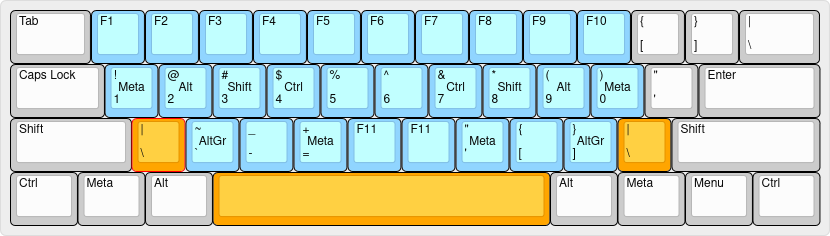
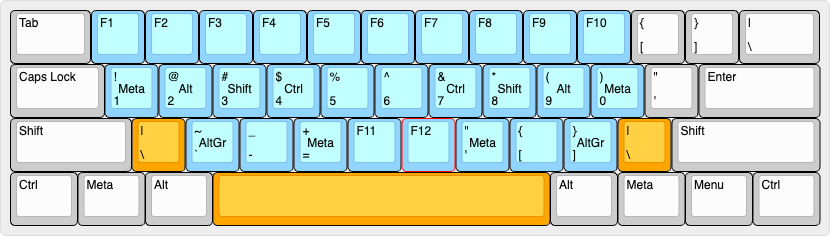
Update README.md and image to fix Fumbol.

diff --git a/README.md b/README.md
@@ -47,7 +47,7 @@ The spacebar is also a layer key and behaves as an entry point to the following 
 
 While holding the spacebar the navigation and editing keys will become accessible under the fingers of your right hand. With your left hand you will be able to access the modifier and media keys. The Shift and Fumbol keys can be used to switch to the corresponding layer, which will remain active until you release the spacebar.
 
-#### [Fumbol](https://www.keyboard-layout-editor.com/##@_name=Fumbol;&@_w:1.5;&=Tab&_c=#90D5FF;&=F1&=F2&=F3&=F4&=F5&=F6&=F7&=F8&=F9&=F10&_c=#cccccc;&=%7B%0A%5B&=%7D%0A%5D&_w:1.5;&=%7C%0A%5C;&@_w:1.75;&=Caps%20Lock&_c=#90D5FF;&=!%0A1%0A%0A%0A%0A%0A%0A%0A%0AMeta&=/@%0A2%0A%0A%0A%0A%0A%0A%0A%0AAlt&=#%0A3%0A%0A%0A%0A%0A%0A%0A%0AShift&=$%0A4%0A%0A%0A%0A%0A%0A%0A%0ACtrl&=%25%0A5&=%5E%0A6&=/&%0A7%0A%0A%0A%0A%0A%0A%0A%0ACtrl&=*%0A8%0A%0A%0A%0A%0A%0A%0A%0AShift&=(%0A9%0A%0A%0A%0A%0A%0A%0A%0AAlt&=)%0A0%0A%0A%0A%0A%0A%0A%0A%0AMeta&_c=#cccccc;&=%22%0A'&_w:2.25;&=Enter;&@_w:2.25;&=Shift&_c=#FFA500;&=%7C%0A%5C&_c=#90D5FF;&=~%0A%60%0A%0A%0A%0A%0A%0A%0A%0AAltGr&=/_%0A-&=+%0A/=%0A%0A%0A%0A%0A%0A%0A%0AMeta&=F11&=F11&=%22%0A'%0A%0A%0A%0A%0A%0A%0A%0AMeta&=%7B%0A%5B&=%7D%0A%5D%0A%0A%0A%0A%0A%0A%0A%0AAltGr&_c=#FFA500;&=%7C%0A%5C&_c=#cccccc&w:2.75;&=Shift;&@_w:1.25;&=Ctrl&_w:1.25;&=Meta&_w:1.25;&=Alt&_c=#FFA500&a:7&w:6.25;&=&_c=#cccccc&a:4&w:1.25;&=Alt&_w:1.25;&=Meta&_w:1.25;&=Menu&_w:1.25;&=Ctrl)
+#### [Fumbol](https://www.keyboard-layout-editor.com/##@_name=Fumbol;&@_w:1.5;&=Tab&_c=#90D5FF;&=F1&=F2&=F3&=F4&=F5&=F6&=F7&=F8&=F9&=F10&_c=#cccccc;&=%7B%0A%5B&=%7D%0A%5D&_w:1.5;&=%7C%0A%5C;&@_w:1.75;&=Caps%20Lock&_c=#90D5FF;&=!%0A1%0A%0A%0A%0A%0A%0A%0A%0AMeta&=/@%0A2%0A%0A%0A%0A%0A%0A%0A%0AAlt&=#%0A3%0A%0A%0A%0A%0A%0A%0A%0AShift&=$%0A4%0A%0A%0A%0A%0A%0A%0A%0ACtrl&=%25%0A5&=%5E%0A6&=/&%0A7%0A%0A%0A%0A%0A%0A%0A%0ACtrl&=*%0A8%0A%0A%0A%0A%0A%0A%0A%0AShift&=(%0A9%0A%0A%0A%0A%0A%0A%0A%0AAlt&=)%0A0%0A%0A%0A%0A%0A%0A%0A%0AMeta&_c=#cccccc;&=%22%0A'&_w:2.25;&=Enter;&@_w:2.25;&=Shift&_c=#FFA500;&=%7C%0A%5C&_c=#90D5FF;&=~%0A%60%0A%0A%0A%0A%0A%0A%0A%0AAltGr&=/_%0A-&=+%0A/=%0A%0A%0A%0A%0A%0A%0A%0AMeta&=F11&=F12&=%22%0A'%0A%0A%0A%0A%0A%0A%0A%0AMeta&=%7B%0A%5B&=%7D%0A%5D%0A%0A%0A%0A%0A%0A%0A%0AAltGr&_c=#FFA500;&=%7C%0A%5C&_c=#cccccc&w:2.75;&=Shift;&@_w:1.25;&=Ctrl&_w:1.25;&=Meta&_w:1.25;&=Alt&_c=#FFA500&a:7&w:6.25;&=&_c=#cccccc&a:4&w:1.25;&=Alt&_w:1.25;&=Meta&_w:1.25;&=Menu&_w:1.25;&=Ctrl)
   
 ![Fumbol layer image](images/fumbol.png)
 
